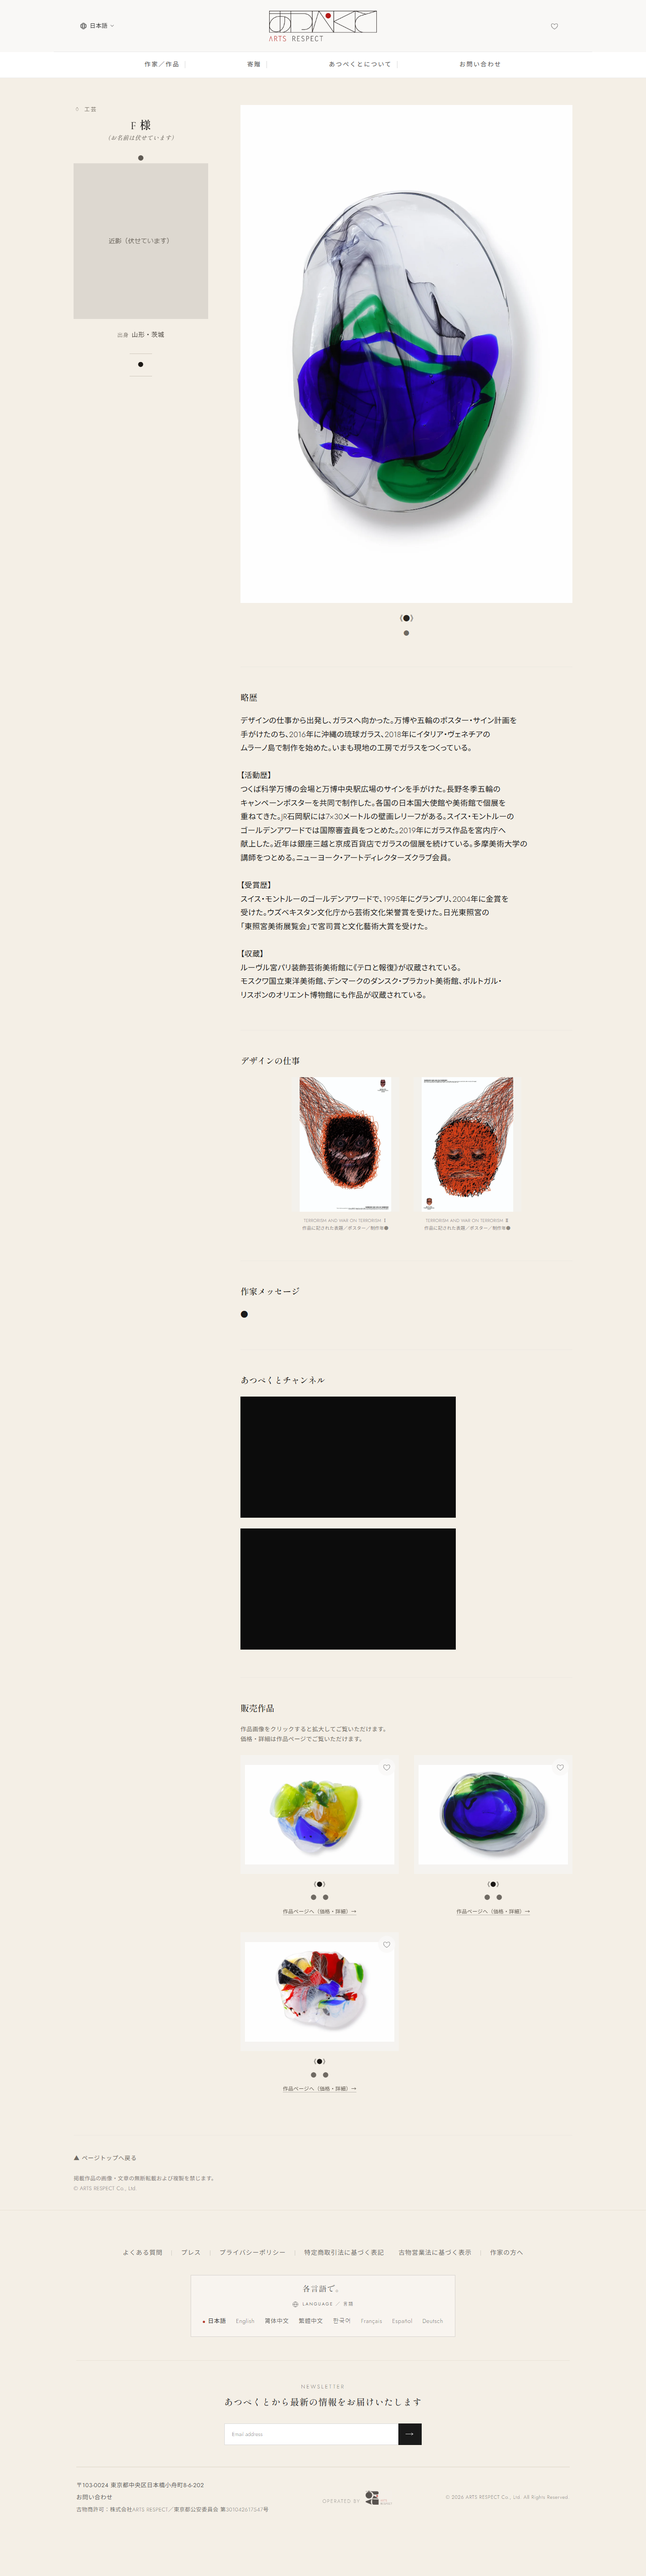
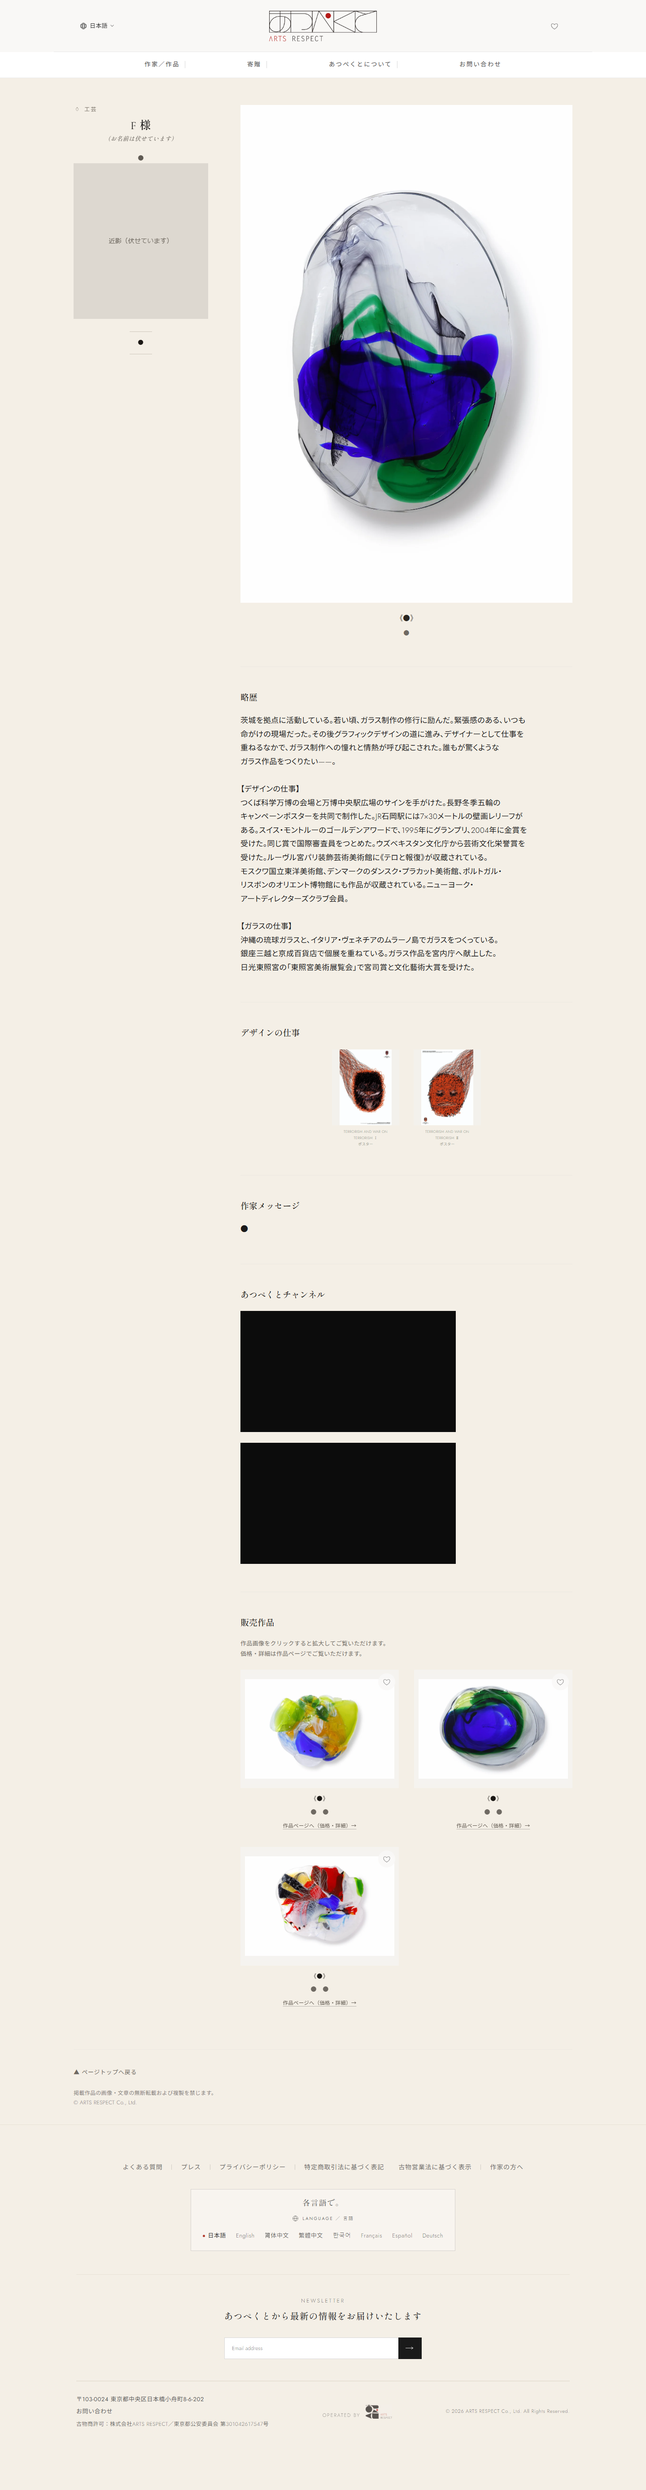
@ 制作: F様ページの再是正（図版・紹介文・区分・出身の扱い）
- デザイン資料図版を116x170へ縮小＝販売作品の面積比24%・2点が1行（3幅で実測）
- 冒頭の紹介文を、時期・固有名詞のない物語へ（8言語で年・工房名0件を機械確認）
- 実績を【デザインの仕事】【ガラスの仕事】の二区分へ（8言語で7行・2区分一致）
- 出身の欄を出さない扱いに変更し「茨城を拠点に活動」を紹介文へ（ライブで残存0を確認）
- 観光大使・特別講義はページに載せず、確認一覧の○×へ
- 確認一覧を○×5問の形へ作り替え
- Codex指摘30件をすべて採用（構文の破れ・国名の脱落・意味の弱まりなど）

@

diff --git a/reports/seisaku.md b/reports/seisaku.md
@@ -359,3 +359,91 @@ W様の「★ご確認のお願い」に**経歴の書き方の節を追加**し
 **「髙」をはしごだかのまま出していること**を明記しました。
 
 <!-- 追記 2026-08-13 あつぺくと制作T / Opus 5 -->
+
+---
+
+# 追記（2026-08-13・制作T）＝F様ページの再是正（図版・紹介文・区分・出身の扱い）
+
+★**実行モデルについて正直に**＝本便は**Fable 5**のご指定でしたが、**このセッションは Opus 5 のまま**で、
+当方からモデルを切り替えることはできません。**Opus 5 で実施しました。**
+
+## 23. 扱いの原則をCLAUDE.mdへ記録
+
+**「ご本人は年齢非公表・経歴の詳細を語らない意向。時期・年・工房名・期間等の具体は、資料で確定しているもの以外
+一切書かない。たしかな情報がなければ載せないを最優先。確認のお伺いも最小限にする。」**
+★この原則は**F様に固有**である旨も併記しました（語ってくださる方には、確定した事実をきちんと書くのが敬意になるため）。
+追加のご指示（出身の扱い）も同じ項へ記録しました。
+
+## 24. 図版＝序列で縛りました（実測値）
+
+| 幅 | デザインの資料図版 | 販売作品（ガラス） | 2点が1行 | デザイン＜作品 |
+|---|---|---|---|---|
+| 1440 | **116×170** | 333×245 | はい | **はい**（面積比 **24%**） |
+| 768 | 116×170 | 704×523 | はい | はい |
+| 390 | 116×170 | 326×240 | はい | はい |
+
+キャプションも本文より小さく・淡くしました（資料図版の位置づけ）。
+**3幅とも画像を目で見て、主役がガラスに見えることを確認**しています。
+
+★**小さくした結果、キャプションが「制作／年●」と語中で折れていた**のを目視で発見し、
+**年●を落として「ポスター」だけ**にして解消。再撮影で確認しました。
+
+## 25. 冒頭の紹介文＝時期・固有名詞のない物語に
+
+骨子（若い頃の修行 → 命がけの現場 → デザインの道 → ガラスへの憧れと情熱 → 誰もが驚く作品を）を外さず、
+**年・工房名・期間を一切書いていない**ことを8言語すべてで機械確認しました。
+
+★**「誰もが驚くようなガラス作品をつくりたい」は、紹介文に骨子として残しつつ、
+「作家のことば」欄の候補として確認一覧に○×で載せました。**
+
+## 26. 実績＝仕事別の二区分
+
+【デザインの仕事】【ガラスの仕事】。受賞・収蔵もそれぞれの中へ。
+**8言語すべてで7行・2区分で一致**（機械確認）。
+**多摩美術大学の特別講義は載せていません**（確認前）。**肩書きも書いていません。**
+
+## 27. ★出身の扱い（追加のご指示を反映）
+
+- **「出身」の欄そのものを出さないようにしました**（「山形・茨城」の表記も削除）。
+  ライブで **`出身`の行が0件・「山形」の残存0件**を確認済みです。
+- **代わりに「茨城を拠点に活動している。」を紹介文の冒頭に**入れました（8言語）。
+  ★**プロフィール欄に置かなかった理由**＝あの欄のラベルは鈴木千賀子さまの型で「**出身**」であり、
+  そこへ拠点を入れると**出身と誤って読まれる**ためです。
+- **行方市の観光大使は、ページに載せていません**（ライブで残存0件を確認）。確認一覧に○×の1問として置きました。
+
+## 28. 確認一覧＝○×の形に作り替えました
+
+長い記入依頼をやめ、**○×で答えられる5問**に絞りました（①紹介文 ②作家のことばの候補 ③特別講義
+④観光大使＋現在も委嘱中か ⑤お名前の読み）。●は「お分かりになるものだけ」の任意欄へ降格しています。
+
+## 29. Codexの独立レビュー＝30件すべて採用
+
+| 指摘の型 | 件数 | 例 |
+|---|---|---|
+| 原文の意味が弱められている | 7言語 | 「修行に励んだ」が「習った」に／「命がけ」が「〜のようだった」に／「つくりたい」が過去形に |
+| 「現場」を工房に狭めていた | 7言語 | workshop / atelier / Werkstatt → 仕事の場 |
+| 「ガラス制作」が素材の glass に落ちていた | 7言語 | glass → glassmaking / création verrière など |
+| **構文が壊れていた** | 7言語 | 「琉球ガラスと、ムラーノ島で」を並列して、**琉球ガラスもムラーノ島で作ると読めた** |
+| 国名の脱落 | 5言語 | イタリア・ポルトガル・スイスが落ちていた |
+| 「金賞」を実物のメダルに変えていた | 3言語 | médaille d'or → prix d'or など |
+| 区分の見出しが直訳調 | 中韓 | 「玻璃的工作」「유리의 일」→ 自然な形へ |
+| 固有の賞名を一般語にしていた | 中文 | 「金奖大赛」→ Golden Award |
+
+★**今回も文まるごとを置き換え、置換後の文を読み直しました**（壊れ0件）。
+★**簡体字と繁体字で字面が同じ見出しがあり、置換が2回当たって止まりました。**
+出現順に1つずつ置く形へ直し、**置き残し0**を検査で確認しています。
+
+## 30. 検品
+
+- **F様 × 2言語（ja/en）× 3幅＝6枚**＋**デザイン2点とガラス作品の比較カット（3幅×2種）**を追加pushしました。
+- 撮影前に毎回いちど最下部までスクロールし、位置0を実測。**横溢れ＝6通りすべて0件。**
+- ★**一度、反映前の画面を撮ってしまいました**（更新直後に撮影したため）。
+  **ライブを取り直して実体が新しいことを確かめてから撮り直し**ています。
+- ★スクショの動画枠が黒く写る回があります。**これは撮影時にサムネイルが間に合わないためで、
+  実際の表示は別便で確認済み**です（不具合ではありません）。
+
+## 31. W様
+
+**「水戸京成百貨店」「岐阜髙島屋（はしごだか）」で確定**とのご連絡を受け、**走行中の文言のまま**としました。変更はありません。
+
+<!-- 追記 2026-08-13 あつぺくと制作T / Opus 5 -->
